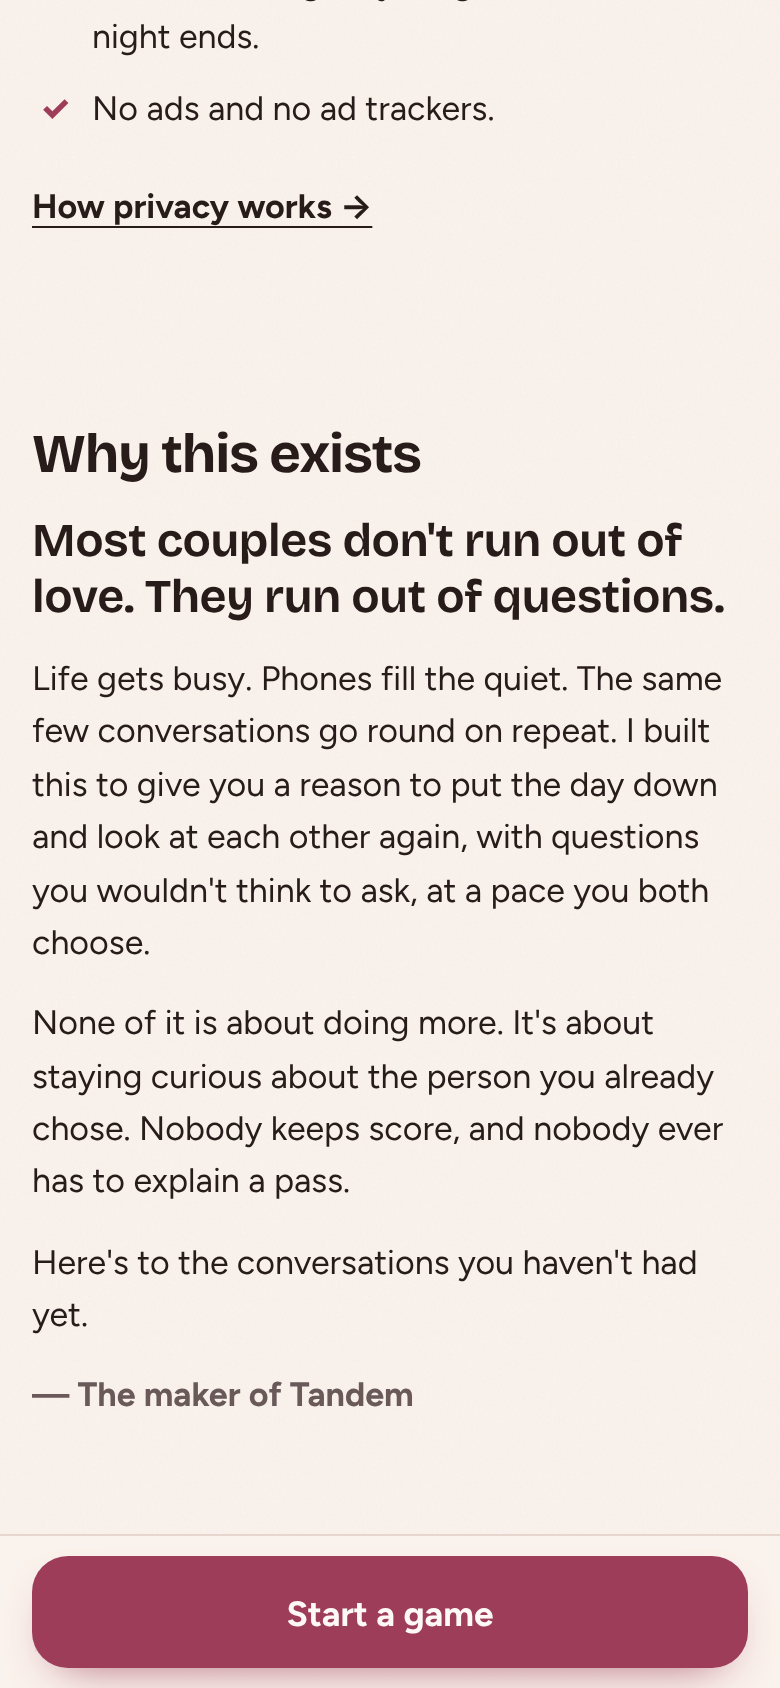
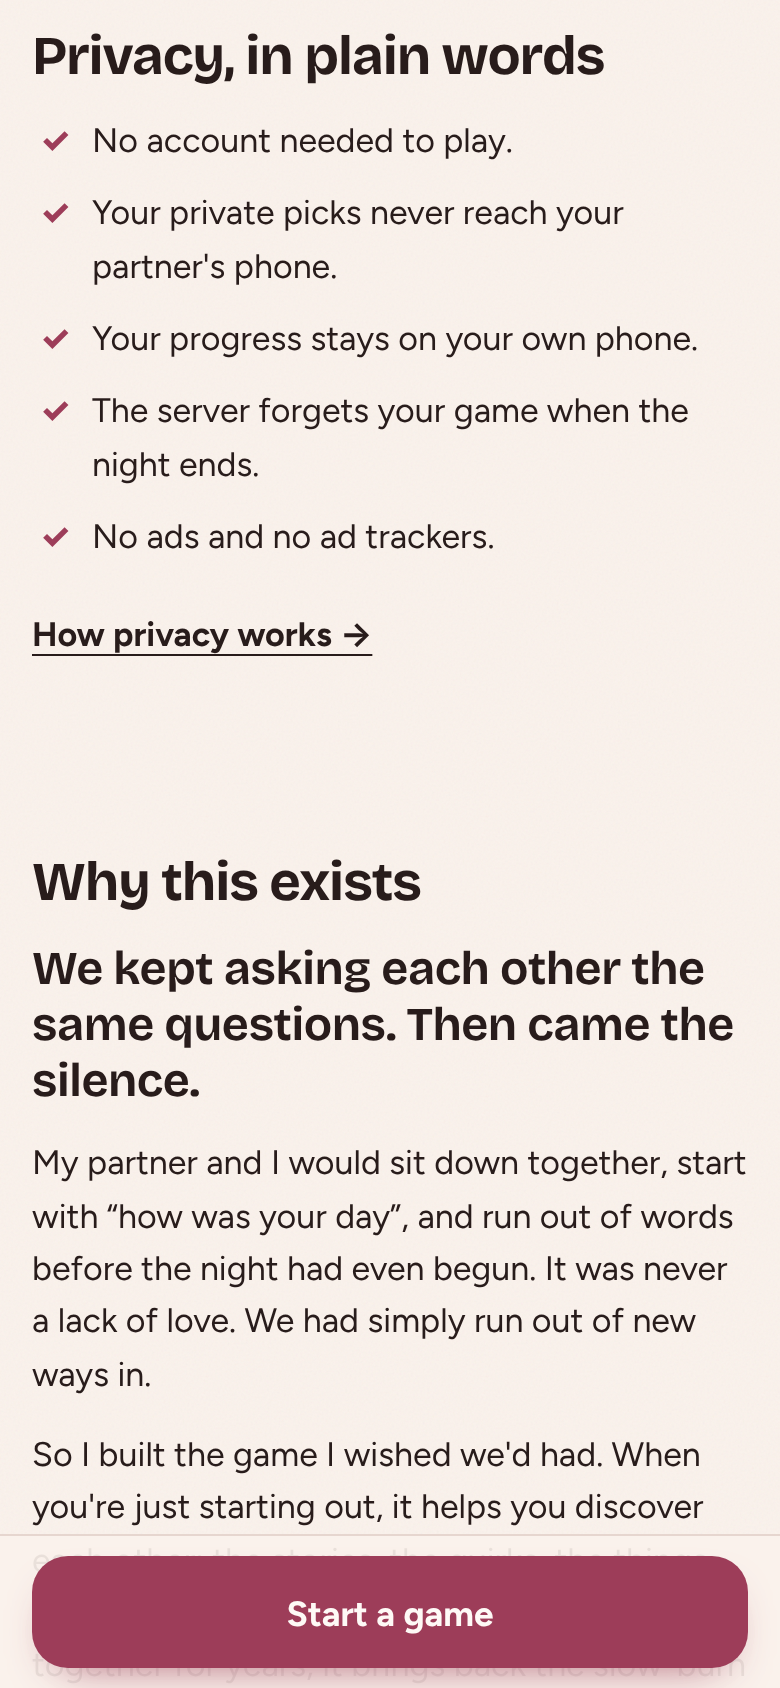
Rewrite the founder note with the founder's own story
Opens with the real reason: the same questions, then the silence.
Speaks to new couples (discover each other) and long-time couples
(the slow-burn feeling of being wanted), and stays safe for work for
ad platforms and payment providers.

Claude-Session: https://claude.ai/code/session_018MUKhk1ckABrdijbmby1G9

diff --git a/index.html b/index.html
@@ -109,10 +109,11 @@
       <!-- Founder note -->
       <section class="founder" aria-labelledby="founder-h">
         <h2 id="founder-h">Why this exists</h2>
-        <p class="lead">Most couples don't run out of love. They run out of questions.</p>
-        <p>Life gets busy. Phones fill the quiet. The same few conversations go round on repeat. I built this to give you a reason to put the day down and look at each other again, with questions you wouldn't think to ask, at a pace you both choose.</p>
-        <p>None of it is about doing more. It's about staying curious about the person you already chose. Nobody keeps score, and nobody ever has to explain a pass.</p>
-        <p>Here's to the conversations you haven't had yet.</p>
+        <p class="lead">We kept asking each other the same questions. Then came the silence.</p>
+        <p>My partner and I would sit down together, start with “how was your day”, and run out of words before the night had even begun. It was never a lack of love. We had simply run out of new ways in.</p>
+        <p>So I built the game I wished we'd had. When you're just starting out, it helps you discover each other: the stories, the quirks, the things that make you blush. When you've been together for years, it brings back the slow-burn feeling of being wanted, one question, one look, one dare at a time.</p>
+        <p>You set the pace together. Nothing unlocks until you both want it, and nobody ever has to explain a pass.</p>
+        <p>Here's to the nights that start with a question and end somewhere closer.</p>
         <p class="sign">— The maker of Tandem</p>
       </section>
 
